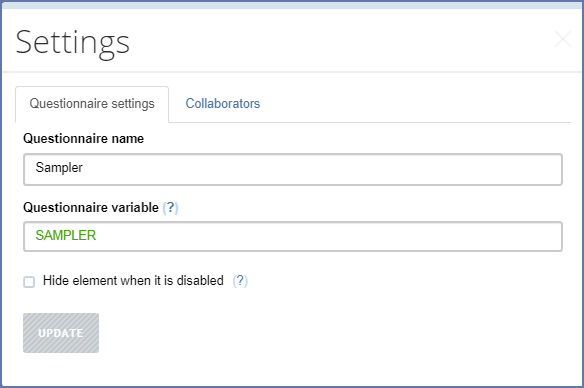
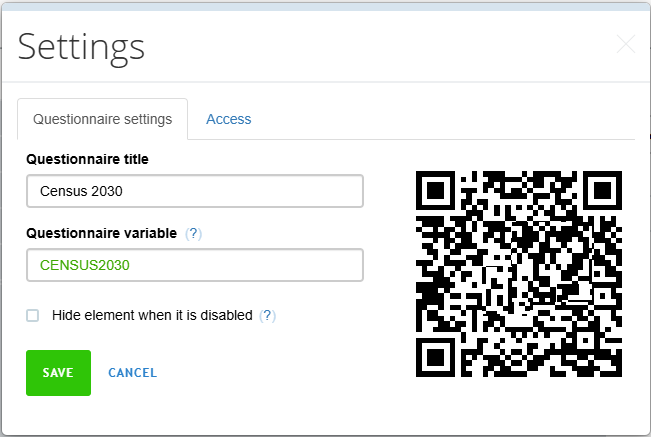
Revised questionnaire settings and sharing

Changed region(s): [[0.0, 0.0, 1.0, 1.0], [0.3082, 0.2474, 0.4623, 0.3093]]

diff --git a/content/questionnaire-designer/interface/anonymous-sharing/index.md b/content/questionnaire-designer/interface/anonymous-sharing/index.md
@@ -16,12 +16,20 @@ When the team consists of a fixed number of known individuals such collaboration
 
 These situations are not unique to Survey Solutions and in some part or another apply to most systems that store documents online. We realize that besides the core group that develops the document there is a larger group of people who may need to be accessing that electronic document, but who are less identifiable. A popular solution adopted by many cloud-based storage systems is link-sharing, where the document is not shared with a specific user, but rather a unique link is generated, and any person having this link may access the document via that link.
 
-With the [release v22.06](/release-notes/version-22-06/) of the Survey Solutions this feature is also be available to the authors of the questionnaires in Survey Solutions Designer. Here is what it allows:
+Since [v22.06](/release-notes/version-22-06/) of Survey Solutions this feature is also available to the authors of the questionnaires in Survey Solutions Designer. Here is what it allows:
 
-- Anonymous share can be activated/deactivated by the questionnaire owner only (in the collaborators dialog now called `Access` dialog).
+- Anonymous share can be activated/deactivated by the questionnaire owner only (in the [questionnaire settings](/questionnaire-designer/interface/settings/) dialog's `Access` tab).
 - Generate a web-link to open questionnaire in Designer in read-only mode.
 - Authenticated users with an anonymous share link can create own copy of the questionnaire; creating a copy requires the user to login to be designated an owner of that copy.
 - When anonymous link sharing is activated, the owner receives a sharing notification email from the Designer, that can be edited/forwarded to other recipients to access the questionnaire.
+
+<CENTER>
+<div style="display: flex; align-items: flex-start; justify-content: center; ">
+  <img src="images/anonymous_link.png" width=45%  alt="Anonymous sharing inactive">
+  <img src="images/white_spacer.png" width=6%  alt="spacer">
+  <img src="images/anonymous_link_ready.png" width=45% alt="Anonymous sharing activated">
+</div>
+</CENTER>
 
 Users accessing a questionnaire anonymously are able to do the following:
 
@@ -39,13 +47,15 @@ Users accessing a questionnaire anonymously are **not able** to do the following
 - import the questionnaire to the data server to start a new survey.
 
 New functionality has also been introduced into the Tester App for Android tablets to facilitate testing and feedback of the questionnaires without requiring the owner to share it with a particular account:
-- Tester App may be utilized without logging in if the user wants to test the questionnaire with an anonymous link. This link can be entered manually, copied from clipboard or scanned as a QR-code.
+- Tester App may be utilized without logging in if the user wants to test a questionnaire with an anonymous link. This link can be entered manually, copied from clipboard or scanned as a QR-code.
 - The Tester App remembers the recently entered questionnaire links and allows reloading them without having to reenter them.
 - As a matter of fact the tester will allow you to enter the QR-code of any questionnaire (even not shared anonymously) if you have it. So if you are having hundreds of questionnaires that you work on it might be easier to scan the QR-code with the Tester App to open the questionnaire in the Tester, than to search for that title in the long list.
 
 Here is an example QR-code that can be scanned with a Tester App to open a demo questionnaire and doesn't require the user to have an account with Survey Solutions.
 
-<IMG src="images/e86165ec21e8461cae25a19bae6750c0.png">
+<CENTER>
+  <IMG src="images/e86165ec21e8461cae25a19bae6750c0.png">
+</CENTER>
 
 ### Security
 

diff --git a/content/questionnaire-designer/interface/settings/index.md b/content/questionnaire-designer/interface/settings/index.md
@@ -2,39 +2,42 @@
 title = "Questionnaire Settings"
 keywords = ["settings","share","name","questionnaire"]
 date = 2016-06-15T19:30:05Z
-lastmod = 2016-06-15T19:30:05Z
+lastmod = 2026-04-17T00:00:00Z
 aliases = ["/customer/portal/articles/2465929-settings","/customer/en/portal/articles/2465929-settings","/customer/portal/articles/2465929","/customer/en/portal/articles/2465929","/questionnaire-designer/settings"]
 
 +++
 
-To update the settings of the questionnaire, click on the *Settings*
+To update the settings of the questionnaire, click on the `Settings`
 button located at the top right of the page.
 
-<img src="images/settings-button.png" width=50%>
+<CENTER>
+  <img src="images/settings-button.png" width=70%>
+</CENTER>
+
+<CENTER>
+<img src="images/questionnaire-settings.png" width=50%>
+</CENTER>
 
 The settings of a questionnaire contain these parameters:
 
-- **Questionnaire name** - a visible (human-readable) name of the questionnaire, and
+- **Questionnaire name** - a visible (human-readable) name of the questionnaire,
+which may be in any language and contain multiple words, though it is still a
+good idea to keep it short.
 - **Questionnaire variable** - a name that will be assigned to the
-main data file when this questionnaire is exported.
+main data file when this questionnaire is exported. It must satisfy the
+[requirements for variable names](/questionnaire-designer/components/variable-names/)
+applicable throughout the questionnaire.
 - **Hide element when it is disabled** - a flag that enforces all
 disabled elements in the questionnaire to be hidden when disabled
 regardless of their individual visibility settings (*hide-if-disabled*
 flag).
+- a machine-readable (QR-code) questionnaire address at the Designer site. Scan
+this QR-code in the Tester application to download and test the questionnaire
+on a mobile device. This address is automatic (not changeable).
 
-<img src="images/questionnaire-settings.png">
+Click `SAVE` button if you want any of your changes to questionnaire
+settings preserved or `CANCEL` to exit back to questionnaire editing.
 
-The *questionnaire name* may be in any language and contain multiple
-words, though it is still a good idea to keep it short.
-
-The *questionnaire variable* must satisfy the [requirements for variable
-names](/questionnaire-designer/components/variable-names/) applicable 
-throughout the questionnaire.
-
-Click *Update* button if you want any of your changes to questionnaire 
-settings preserved.
-
-Through the questionnaire settings one can also control the collaboration,
-this is discussed in the 
-[sharing a questionnaire](/questionnaire-designer/interface/share-questionnaire/)
-article.
+One can also control the collaboration through the `Access` tab present in this
+dialog. This is described in
+[sharing a questionnaire](/questionnaire-designer/interface/share-questionnaire/).
